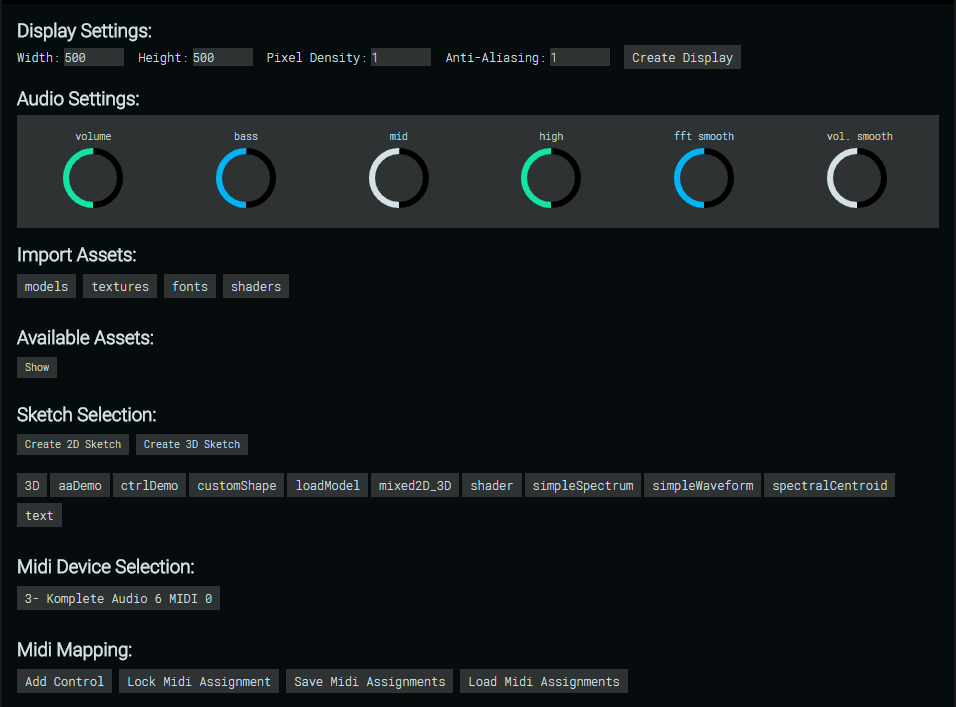
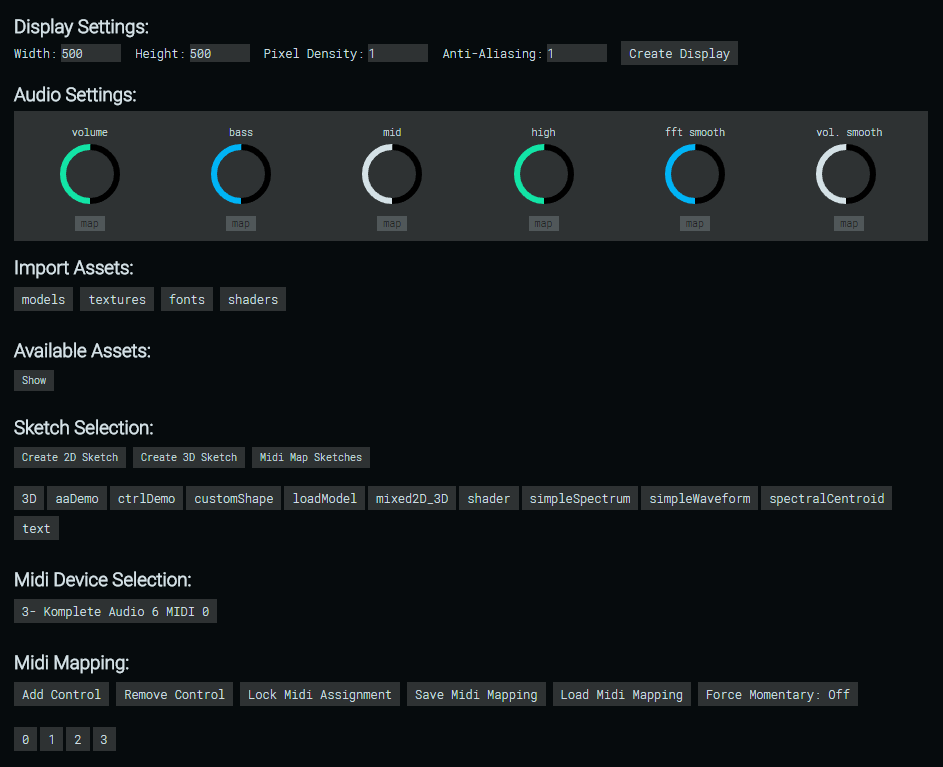
update docs

Changed region(s): [[0.0, 0.0, 0.9841, 0.9958]]

diff --git a/docs/README.md b/docs/README.md
@@ -1,6 +1,6 @@
 # a l e p h ![aleph logo](../aleph_modules/assets/icons/png/32x32.png)
 
-Aleph is a cross-platform, open source framework for developing and performing audio reactive visualizations. It is a desktop client built on [Electron](https://electronjs.org/) that uses [P5.js](https://p5js.org/) for graphics and audio analysis. Aleph exposes all of p5’s 2D *and* 3D functionality inside every user created sketch with some friendly wrappers for common boring things thrown in for good measure. In addition, Aleph provides MIDI control support which is sadly not offered by vanilla p5. Think of it as an enhanced environment for developing and performing audio-reactive p5 sketches.
+Aleph is a cross-platform desktop client and programming framework for developing and performing audio reactive visualizations. It is a desktop client built on [Electron](https://electronjs.org/) that uses [P5.js](https://p5js.org/) for graphics and audio analysis. Aleph exposes all of p5’s 2D *and* 3D functionality inside every user created sketch with some friendly wrappers to expedite development. In addition, Aleph provides MIDI control support which is sadly not offered by vanilla p5. Think of it as an enhanced environment for developing and performing audio-reactive p5 sketches. 
 
 ## The Interface:
 When you first launch Aleph, you will see the editor window, which looks like this:
@@ -8,7 +8,7 @@ When you first launch Aleph, you will see the editor window, which looks like th
 ![aleph ui](./img/ui.png)
 
 #### Display Settings:
-Aleph displays your actual p5 sketches on a separate window with no UI elements (called the display window) so you can present fullscreen graphics on a secondary display while still being able to access the editor window. You can manually assign a screen resolution by entering values into the Width and Height inputs and create the display using the “Create Display” button. This is useful if you need an exact size for whatever reason. You can also specify pixel density and enable/disable anti-aliasing for images/textures. Alternatively, because Aleph supports dynamically resizable windows, you can simply click “Create Display” without providing a size, and manually resize (or maximize) the window as you see fit. Once you have spawned a display you can enter fullscreen mode by pressing F11 or CTRL+SHIFT+F. 
+Aleph displays your actual p5 sketches on a separate window with no UI elements (called the display window) so you can present fullscreen graphics on a secondary display while still being able to access the editor window. You can manually assign a screen resolution by entering values into the Width and Height inputs and create the display using the “Create Display” button. This is useful if you need an exact size for whatever reason. You can also specify pixel density and enable/disable anti-aliasing for images/textures. Alternatively, because Aleph supports dynamically resizable windows, you can simply click “Create Display” without providing a size, and manually resize (or maximize) the window as you see fit. Once you have spawned a display you can enter fullscreen mode by pressing F11 or CTRL+SHIFT+F (or CMD+SHIFT+F on macOS).
 
 ###### *Note: many controls on the Aleph control panel are disabled until the display window is created. You cannot adjust audio settings, select sketches, or configure MIDI devices until the display window has been created.*
 
@@ -20,6 +20,8 @@ Aleph displays your actual p5 sketches on a separate window with no UI elements 
 * *FFT Smooth*: Adjusts FFT smoothing. High smoothing values result in more gradual changes between frames. 
 * *Volume Smooth*: Adjusts volume smoothing. High smoothing values result in more gradual changes between frames.
 
+These knobs can be controlled with the mouse but it is also possible to control them with MIDI (see [Controlling Audio Parameter Knobs with MIDI](#controlling-audio-parameter-knobs-with-midi)).
+
 #### Import Assets:
 Use the labeled buttons to import custom 3D models, textures, fonts, and shaders to use in your sketches. Files will be imported to the folder `resources/app/aleph_modules/core/assets`.
 
@@ -27,20 +29,40 @@ Use the labeled buttons to import custom 3D models, textures, fonts, and shaders
 Use the “show/hide” button to toggle visibility of all assets available to your local installation of Aleph. The files are displayed exactly as they should be correctly referenced in your code - ex. An imported 3D model called “myModel.obj” would be referenced as `assets.models.myModel`, as it is listed in the UI.
 
 #### Sketch Selection:
-On boot, Aleph will automatically scan your sketches folder (located at `resources/app/aleph_modules/core/sketches`) and generate labeled buttons for each sketch. You can toggle the active sketch by clicking the corresponding button of the sketch you would like to switch to. In a future update, switching sketches will also be possible via MIDI control.
+On launch, Aleph will automatically scan your sketches folder (located at `resources/app/aleph_modules/core/sketches`) and generate labeled buttons for each sketch. You can toggle the active sketch by clicking the corresponding button of the sketch you would like to switch to. It is also possible to control sketch selection with MIDI (see [Controlling Sketch Selection with MIDI](#controlling-sketch-selection-with-midi	)).
 
 #### Midi Device Selection:
-On boot, Aleph will automatically scan your computer for available MIDI devices and generate labeled buttons for each device. To select a device, simply click its button. This will enable you to use the device to send MIDI controls to Aleph. 
+On launch, Aleph will automatically scan your computer for available MIDI devices and generate labeled buttons for each device. To select a device, simply click its button. This will enable you to use the device to send MIDI controls to Aleph. You can select multiple midi devices if you wish to use more than one controller. 
 
-###### *Note: at present, there is no ability to change MIDI devices or assign multiple MIDI devices. Attempting to change MIDI device after selecting one will likely result in a crash or error with MIDI handling. If you need to reselect a MIDI device, refresh Aleph by pressing CTRL+R (or CMD+R on Mac) and reselect a device. Improvements in this department are on the roadmap!*
+###### *Note: you must select a MIDI device before attempting to create MIDI mappings!*
 
 #### Midi Mapping:
-Once you have selected a MIDI input device, you can begin mapping controls. This is 
-done by first creating a control entry by clicking “Add Control”.
 
-Next you can create an assignment by clicking the numbered box created below to “listen” for MIDI messages, then pressing/turning a MIDI control on your controller to assign that physical control to the corresponding entry.
+##### Controlling Audio Parameter Knobs with MIDI:
+You can assign MIDI controls to the audio control knobs on the UI by clicking the small box under a given control labeled "map". Clicking the button will make Aleph "listen" for any MIDI inputs, so simply turn a knob or move a fader to assign it to one of the audio control UI knobs on the editor window.
+
+![midi mapping knobs](./img/knobs.png)
+
+##### Controlling Sketch Selection with MIDI:
+You can assign MIDI controls to specific sketches to switch between sketches using a MIDI controller. To do so, click the button labeled "Midi Map Sketches", then click the sketch button you would like to map, then finally press a MIDI button to assign the button to the sketch. 
+
+![midi mapping sketch selection](./img/sketchmapping.png)
+
+##### Generic MIDI controls:
+"Generic" in this case means these are controls you can reference in your p5 sketches and set up custom behavior for, as opposed to the MIDI assignments for controlling the audio knobs on the UI or sketch selection.
+
+To create a MIDI mapping, first create a control entry by clicking “Add Control”. Next you can create an assignment by clicking the numbered box created below to “listen” for MIDI messages, then pressing/turning a MIDI control on your controller to assign that physical control to the corresponding entry. You can remove the most recently added mapping using the "Remove Control" button.
+
+![midi mapping](./img/midi-full.png)
 
 Once you have mapped all your controls, you can click “Lock Midi Assignment” to disable the assignment buttons. This prevents you from accidentally overwriting control entries. You can also save/recall mapping files.
+
+You can force momentary/hold behavior (as opposed to toggle) to buttons by enabling the "Force Momentary Mode". In most cases this is a non-issue, but certain pad controllers will behave as toggle switches, which can limit their usefulness in certain cases.
+
+##### Saving and Loading MIDI Mappings
+Once you've created a mapping file, you can save it to disk by clicking the "Save Midi Mapping" button. It will bring up a save dialog for you to name the file.
+
+To load a mapping file, click the "Load Midi Mapping" button. A dialog will appear for you to select the mapping file to load. 
 
 ## Using Aleph
 
@@ -169,7 +191,7 @@ Aleph generates an object called `assets` by scanning your local assets folder. 
 You can access them in your p5 sketches like this: `assets.models.nameOfModel` where "nameOfModel" is the filename stripped of its extension. Ex. to access an imported 3D model called “car.obj”, you would use `assets.models.car`.
 
 #### Midi:
-Through the MIDI mapping process, Aleph will generate an array called `midi` which contains objects representing each assigned MIDI control, each with the index, note, and current CC value of a MIDI control. “Index” in this case refers to the number on the button (in Aleph’s interface) that corresponds with a given control.
+Through the MIDI mapping process, Aleph will generate an array called `midi` which contains objects representing each assigned MIDI control, each with the index, note, CC value, and the name of the physical controller the MIDI control belongs to. “Index” in this case refers to the number on the button (in Aleph’s interface) that corresponds with a given control.
 
 ![midi indexes](./img/midi.png)  
 Here we have 8 MIDI entries with indexes 0-7
